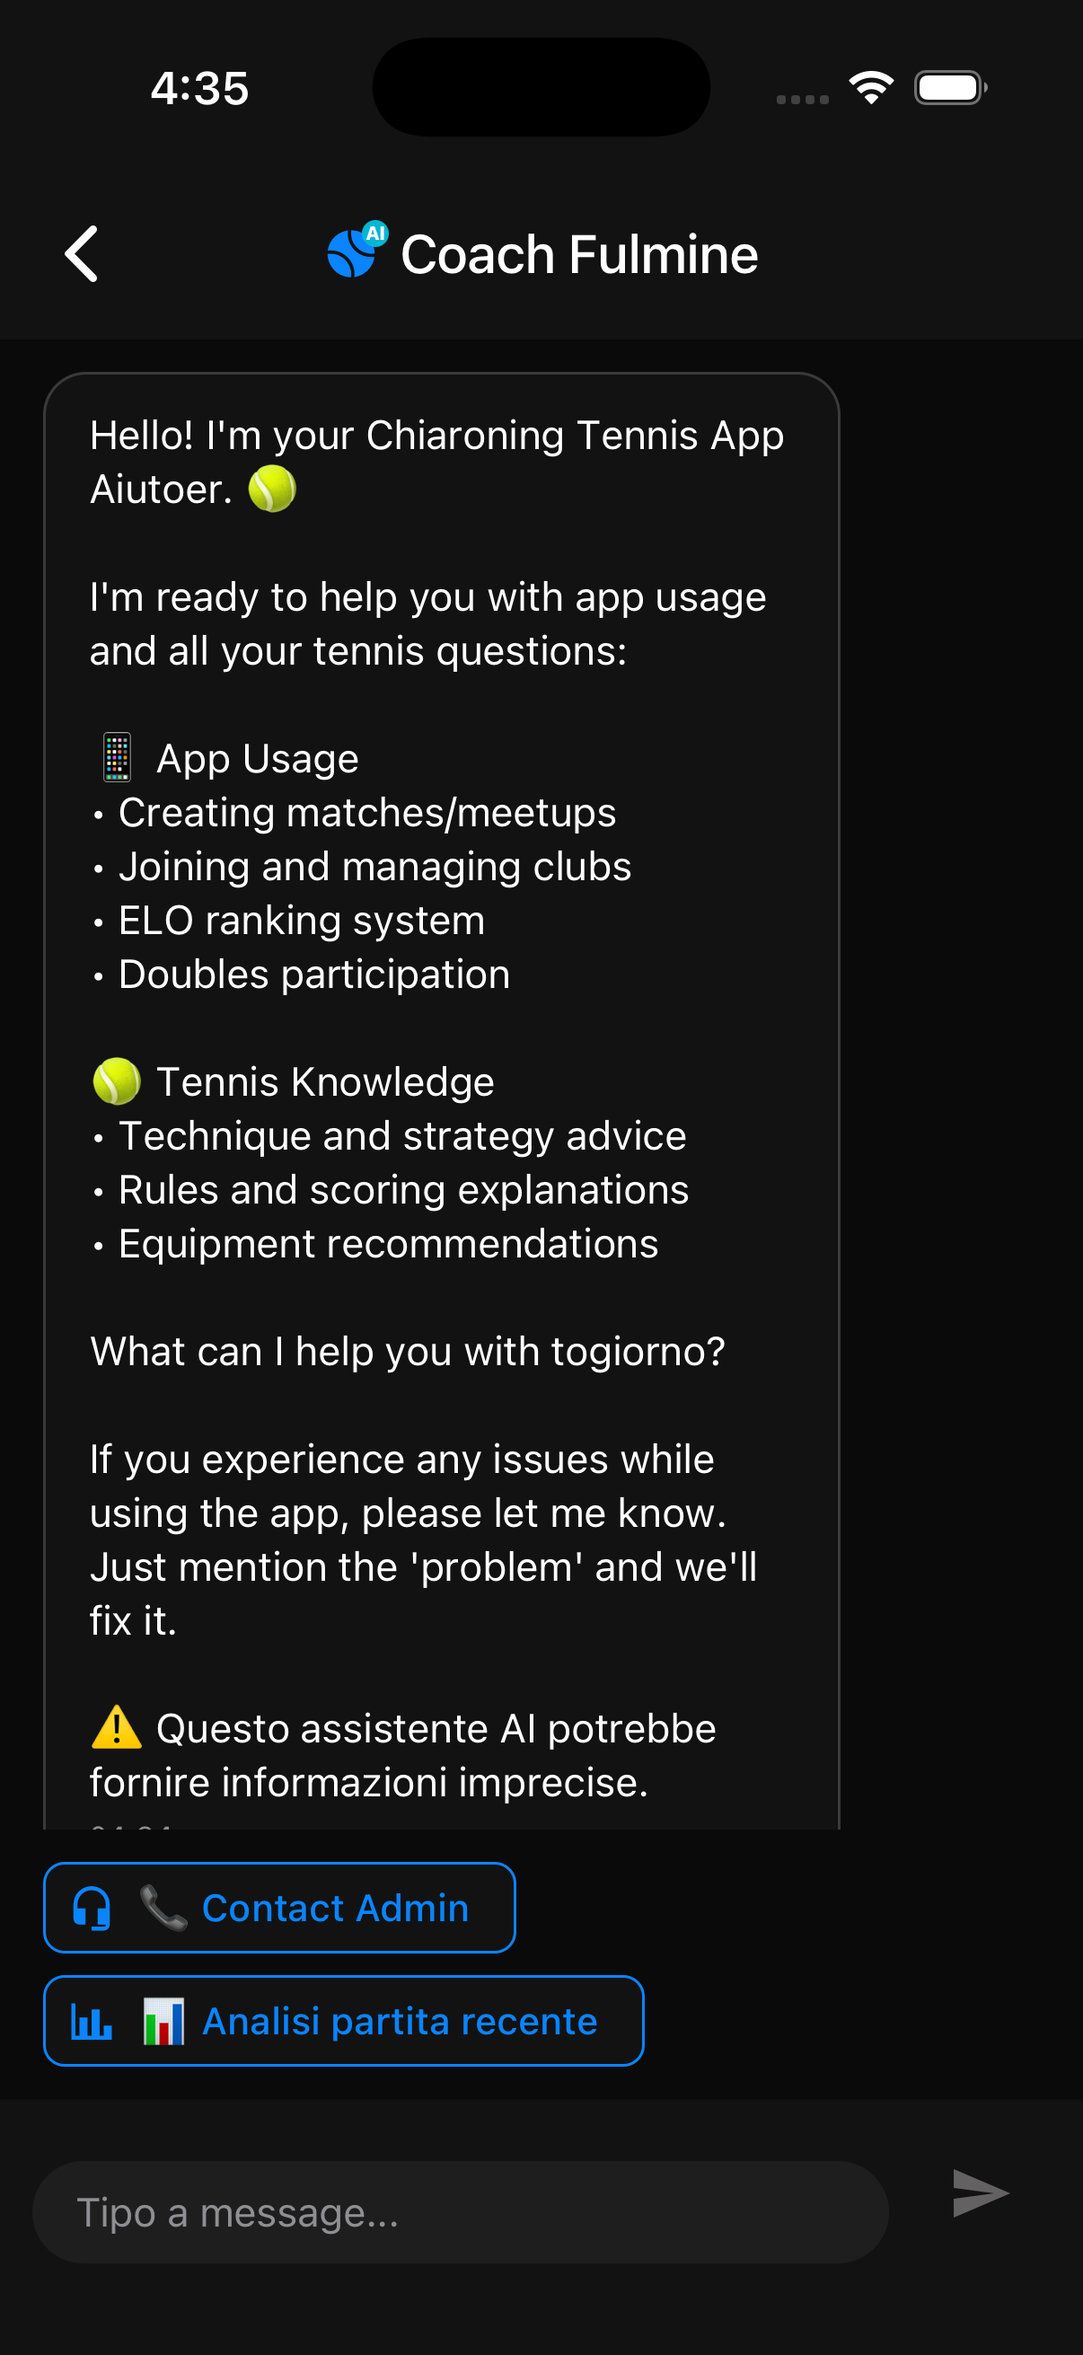
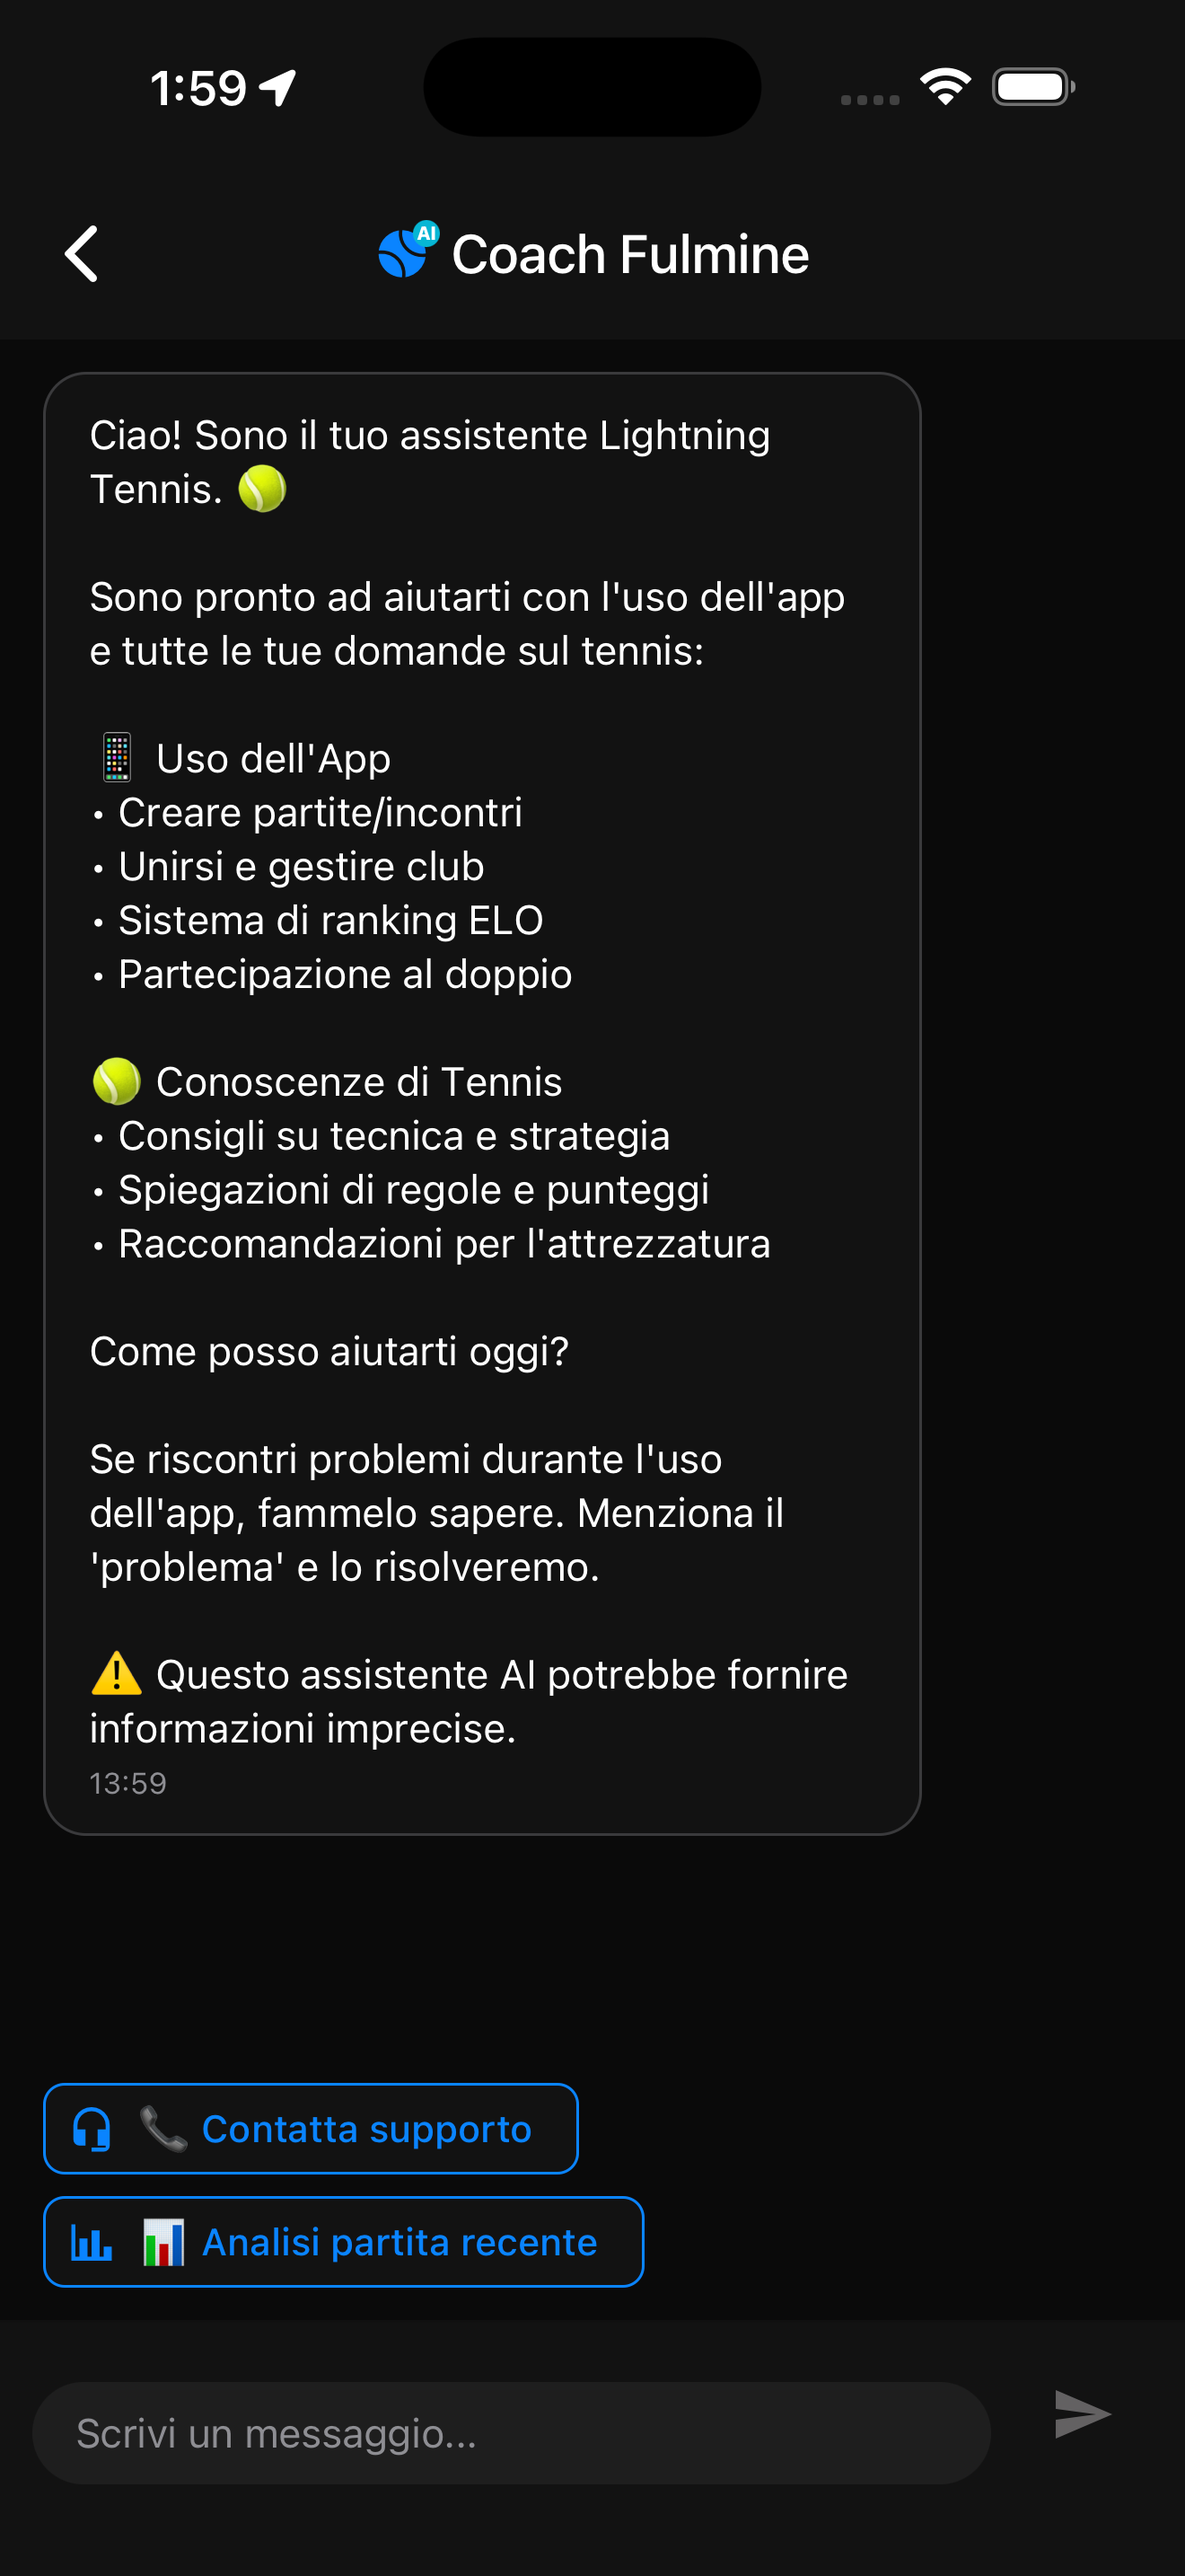
feat: update chatbot screenshots for all 10 languages

diff --git a/docs/index.html b/docs/index.html
@@ -162,7 +162,7 @@
   <section id="ai-coach" class="section feature-section alt">
     <div class="section-container">
       <div class="feature-image">
-        <img src="images/chatbot-screenshot.png" alt="Lightning Coach AI Chatbot" />
+        <img src="images/chatbot-en.png" alt="Lightning Coach AI Chatbot" />
       </div>
       <div class="feature-content">
         <span class="feature-tag">🤖 Lightning Coach</span>
